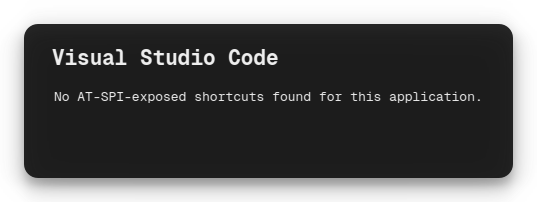
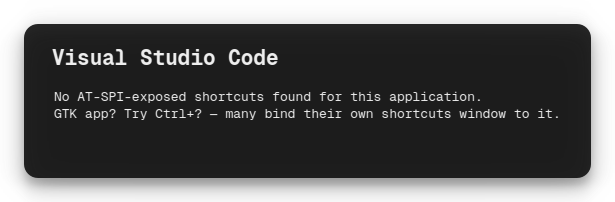
Hint at Ctrl+? in the no-shortcuts message for GTK apps
Many GTK/GNOME apps expose their own built-in shortcuts overlay
(win.show-help-overlay, conventionally bound to Ctrl+?) even though
they don't expose menu shortcuts via AT-SPI. Point people at it
instead of leaving them with just a dead end.

Also updated the example-no-shortcuts.png screenshot to match.

diff --git a/daemon/overlay.py b/daemon/overlay.py
@@ -83,7 +83,10 @@ class KheetSheetOverlay(QWidget):
         self._clear_grid()
 
         if not shortcuts:
-            empty = QLabel("No AT-SPI-exposed shortcuts found for this application.")
+            empty = QLabel(
+                "No AT-SPI-exposed shortcuts found for this application.\n"
+                "GTK app? Try Ctrl+? — many bind their own shortcuts window to it."
+            )
             self._grid.addWidget(empty, 0, 0)
         else:
             groups = [(g, list(items)) for g, items in groupby(shortcuts, key=lambda s: s[0])]
